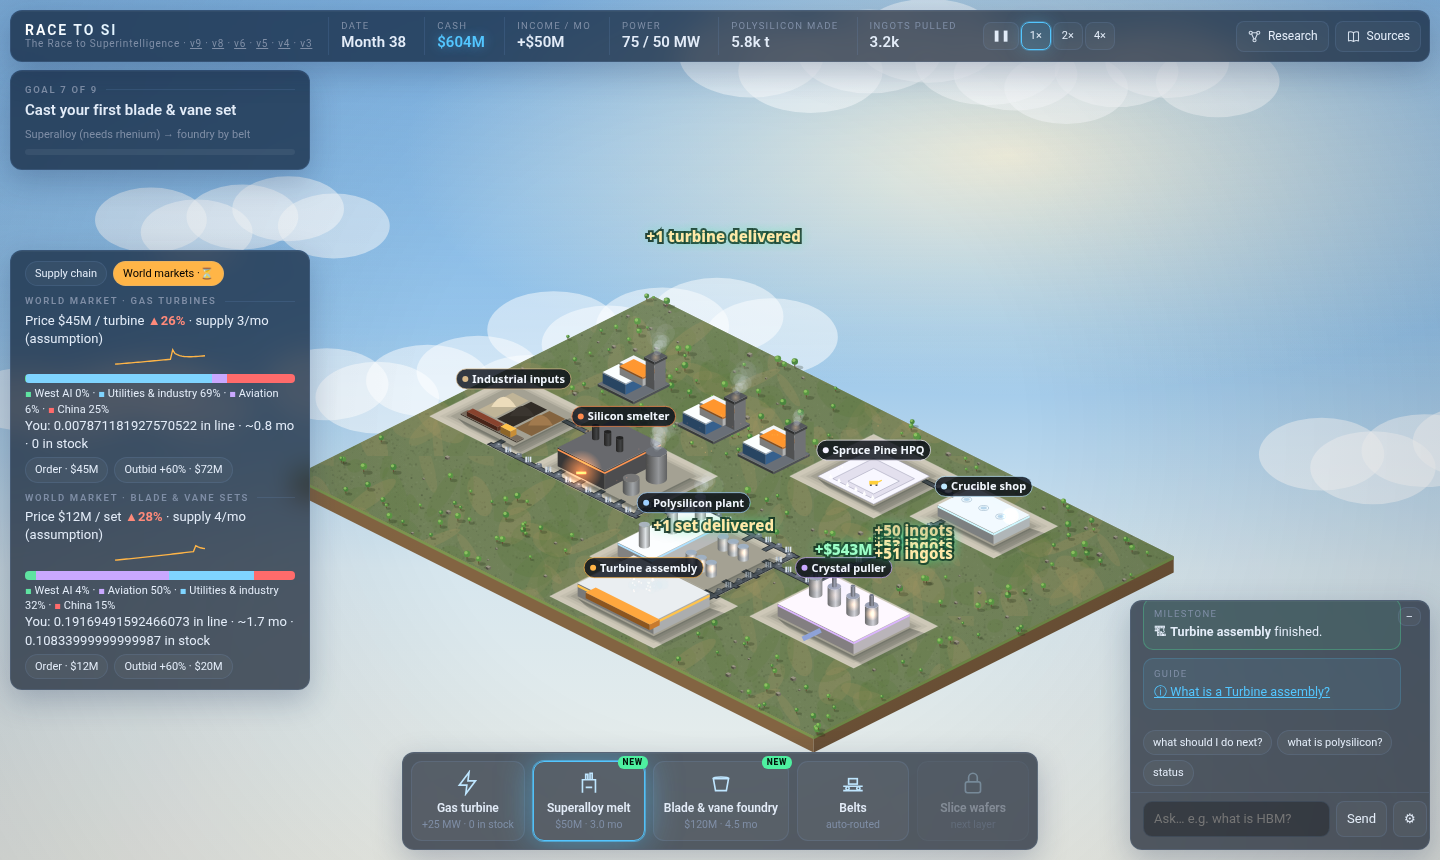
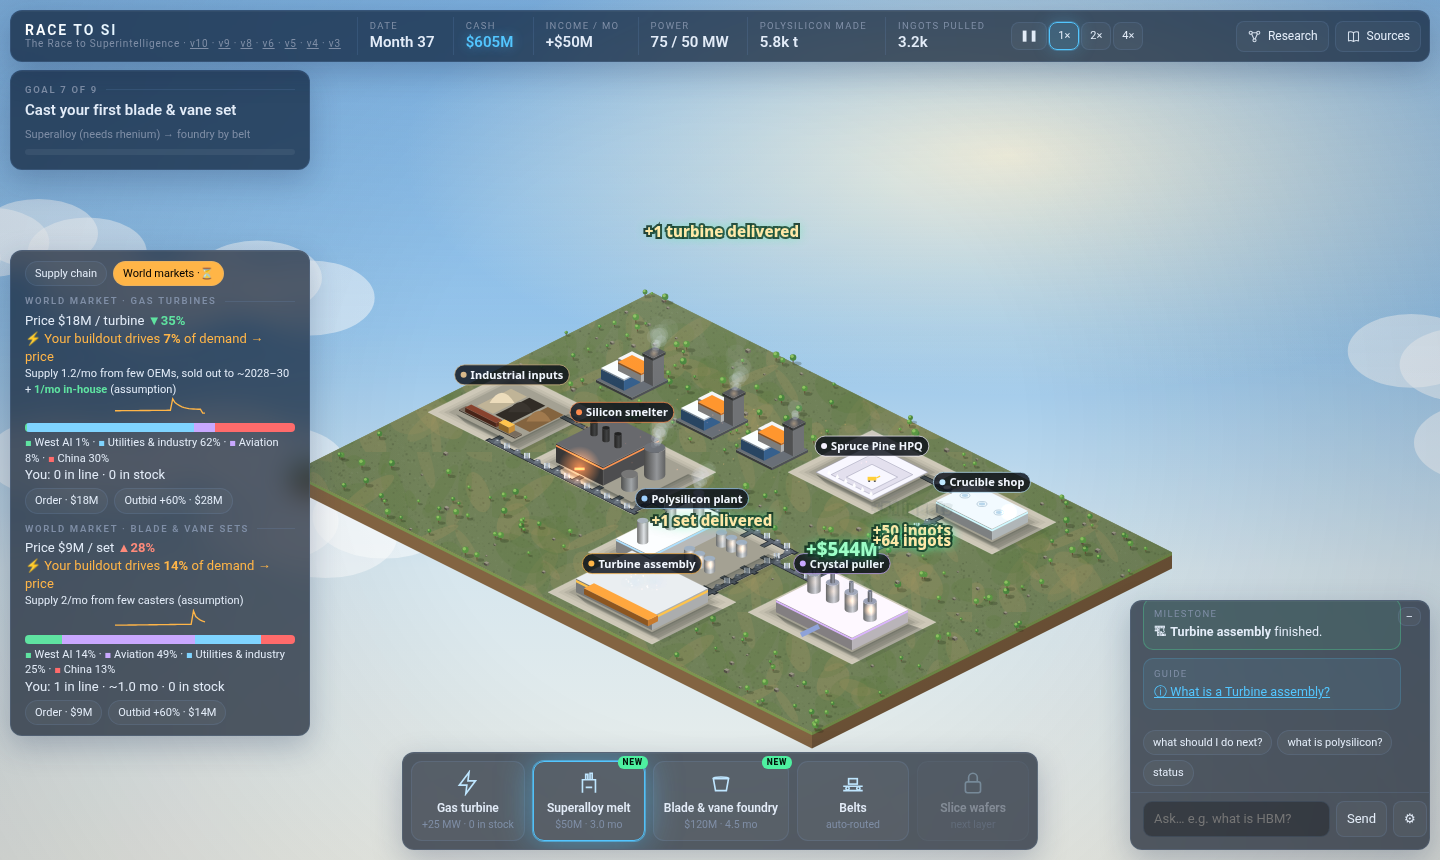
v10: price driven mainly by player AI demand; in-house output adds supply; panel shows your share

diff --git a/index.html b/index.html
@@ -137,7 +137,7 @@ const SRC=[
 ['S','Hot-section blade/vane casting is the limiting step; PCC and Howmet ~80% of high-end single-crystal casting (one expert interview)','Musk Jan & Aug 2026; In Practise; Turbomachinery Magazine'],
 ['S','Rhenium: ~81 t world mine output 2025; ~80% of US use in superalloys; metal ~$2,600/kg (2025)','USGS MCS 2026'],
 ['A','Recipes: superalloy 1 t inputs + 3% rhenium (30 kg, typical 2nd-gen single-crystal alloy level, not verified per alloy); 0.5 t alloy per blade set; 1 blade set + 200 t forgings/casings/generator (industrial inputs) per turbine','Game assumption'],
-['A','Markets: world supply, rival demand growth, price elasticity and the outbid premium are game assumptions. You are the whole West AI build-out; rivals are utilities & industry, aviation (same castings as jet engines) and China. Shares are assumptions','Game assumption'],
+['A','Markets: price = base × ((your orders + non-AI demand + China) ÷ supply)^1. Your own AI buildout is the main driver; non-AI baseline grows slowly; in-house output adds to supply. Supply, baseline, growth, exponent and outbid premium are game assumptions; supply is fixed and slow because few OEMs/casters exist (backlogs: GE Vernova 55 GW backlog+reservations, Jul 2025). You are the whole West AI build-out; rivals are utilities & industry, aviation (same castings as jet engines) and China. Shares are assumptions','Game assumption'],
 ['A','Global time scale: every build takes real duration × 1/8','Game rule'],
 ...Object.keys(DUR).map(k=>[DUR[k].s?'S':'A',`Build time, ${k}: real ${DUR[k].m} months → game ${(DUR[k].m/8).toFixed(2)} months`,DUR[k].src]),
 ];
@@ -273,16 +273,20 @@ function advance(dm){S.t+=dm;builds(dm);const e=econ();S.rate={};const sold0=S.s
 // Player = the whole West AI build-out. Rival demand = non-AI buyers + China (categories are data).
 // Turbine supply ~3 game turbines/month is an assumption. Demand weights are assumptions; context: utility/IPP orders fill GE Vernova's 55 GW backlog+reservations (Jul 2025); aero engines take most PCC/Howmet casting output (Howmet ~half of revenue is commercial aerospace engines, Howmet 10-K 2024) — shares here are game assumptions.
 const MKT={
- turb:{n:'Gas turbines',unit:'turbine',supply:3,price:.03,el:.8,buyers:[{n:'Utilities & industry',d:2.2,g:.012,c:'#7fd4ff'},{n:'Aviation',d:.2,g:.01,c:'#c9a8ff'},{n:'China',d:.6,g:.02,c:'#ff6b6b'}]},
- blade:{n:'Blade & vane sets',unit:'set',supply:4,price:.008,el:.8,buyers:[{n:'Aviation',d:2.2,g:.012,c:'#c9a8ff'},{n:'Utilities & industry',d:1.4,g:.012,c:'#7fd4ff'},{n:'China',d:.5,g:.02,c:'#ff6b6b'}]}};
+ turb:{n:'Gas turbines',unit:'turbine',supply:1.2,price:.03,el:1,buyers:[{n:'Utilities & industry',d:.65,g:.004,c:'#7fd4ff'},{n:'Aviation',d:.08,g:.004,c:'#c9a8ff'},{n:'China',d:.27,g:.008,c:'#ff6b6b'}]},
+ blade:{n:'Blade & vane sets',unit:'set',supply:2,price:.008,el:1,buyers:[{n:'Aviation',d:.9,g:.004,c:'#c9a8ff'},{n:'Utilities & industry',d:.45,g:.004,c:'#7fd4ff'},{n:'China',d:.2,g:.008,c:'#ff6b6b'}]}};
 function mkInit(){const o={};for(const k in MKT)o[k]={q:0,pq:0,hist:[],alloc:{},pos:0,acc:0};return o}
 const mkDem=(k,t)=>MKT[k].buyers.reduce((a,b)=>a+b.d*Math.pow(1+b.g,t),0);
-function mkPrice(k){const m=MKT[k],st=S.mk[k];const D=mkDem(k,S.t)+st.q+st.pq;return m.price*Math.pow(D/m.supply,m.el)}
+const mkInh=k=>k==='turb'?(S.rate.asm||0):(S.rate.cast||0);// in-house output adds to world supply
+const mkYou=k=>{const st=S.mk[k];return st.q+st.pq+(st.ordR||0)};// your AI buildout demand: open orders + recent order rate
+const mkSup=k=>MKT[k].supply+mkInh(k);
+function mkPrice(k){const m=MKT[k];const D=mkDem(k,S.t)+mkYou(k);return m.price*Math.pow(D/mkSup(k),m.el)}
+const mkShare=k=>{const y=mkYou(k);return y/(y+mkDem(k,S.t))};
 const OUTBID=1.6;
-function mkOrder(k,prio){const st=S.mk[k];const p=mkPrice(k)*(prio?OUTBID:1);if(S.cash<p)return say('b',`Not enough cash: one ${MKT[k].unit} costs ${money(p)}${prio?' with the outbid premium':''}.`);S.cash-=p;bumpCash();if(prio)st.pq++;else st.q++;sync();return say('a',prio?`Outbid: paid ${money(p)} (+${Math.round((OUTBID-1)*100)}%) to jump the queue. Delivery at the front of next month's allocation.`:`Ordered 1 ${MKT[k].unit} at ${money(p)}. You join the line: ~${mkWait(k).toFixed(1)} months.`)}
+function mkOrder(k,prio){const st=S.mk[k];const p=mkPrice(k)*(prio?OUTBID:1);if(S.cash<p)return say('b',`Not enough cash: one ${MKT[k].unit} costs ${money(p)}${prio?' with the outbid premium':''}.`);S.cash-=p;bumpCash();if(prio)st.pq++;else st.q++;st.ordR=(st.ordR||0)+1/6;sync();return say('a',prio?`Outbid: paid ${money(p)} (+${Math.round((OUTBID-1)*100)}%) to jump the queue. Delivery at the front of next month's allocation.`:`Ordered 1 ${MKT[k].unit} at ${money(p)}. You join the line: ~${mkWait(k).toFixed(1)} months.`)}
 // player share of the non-priority allocation is pro rata to its orders; queue wait estimate
 function mkWait(k){const m=MKT[k],st=S.mk[k];const D=mkDem(k,S.t);const rest=Math.max(0,m.supply-st.pq);const share=st.q/(D+st.q)*rest;return st.q?st.q/Math.max(.01,share):0}
-function mkTick(dm){for(const k in MKT){const m=MKT[k],st=S.mk[k];const sup=m.supply*dm;const D=mkDem(k,S.t)*dm;let left=sup;const pr=Math.min(st.pq,left);st.pq-=pr;left-=pr;const qn=st.q*dm;const mine=Math.min(st.q,left*(qn/(D+qn||1)));st.q-=mine;left-=mine;const got=pr+mine;st.acc+=got;const n=Math.floor(st.acc+1e-9);if(n>=1){st.acc-=n;S.stock[k]+=n;pop(k==='turb'?PWRS:SITES.asm,`+${n} ${m.unit} delivered`);if(k==='turb')chat('g',`🚚 ${n} gas turbine delivered. Place it from stock.`)}
+function mkTick(dm){for(const k in MKT){const m=MKT[k],st=S.mk[k];st.ordR=(st.ordR||0)*Math.exp(-dm/6);const sup=m.supply*dm;const D=mkDem(k,S.t)*dm;let left=sup;const pr=Math.min(st.pq,left);st.pq-=pr;left-=pr;const qn=st.q*dm;const mine=Math.min(st.q,left*(qn/(D+qn||1)));st.q-=mine;left-=mine;const got=pr+mine;st.acc+=got;const n=Math.floor(st.acc+1e-9);if(n>=1){st.acc-=n;S.stock[k]+=n;pop(k==='turb'?PWRS:SITES.asm,`+${n} ${m.unit} delivered`);if(k==='turb')chat('g',`🚚 ${n} gas turbine delivered. Place it from stock.`)}
   const al=st.alloc;al['West AI (you)']=(al['West AI (you)']||0)*.95+got/dm*.05;m.buyers.forEach(b=>{const dd=b.d*Math.pow(1+b.g,S.t)*dm;al[b.n]=(al[b.n]||0)*.95+(left*dd/(D||1))/dm*.05});
   st.tick=(st.tick||0)+dm;if(st.tick>=.5){st.tick=0;st.hist.push(mkPrice(k));if(st.hist.length>40)st.hist.shift()}}}
 const AICK={depot:'ind',smelt:'smelt',poly:'poly',hpq:'hpq',cru:'cru',cz:'cz',alloy:'smelt',cast:'cru',asm:'pow'};
@@ -348,7 +352,7 @@ function intro(){if(typeof __NOINTRO!=='undefined')return;const el=document.crea
 
 function spark(h){if(h.length<2)return'';const mx=Math.max(...h),mn=Math.min(...h);return`<svg viewBox="0 0 100 20" style="width:100%;height:18px"><polyline fill="none" stroke="#ffb547" stroke-width="1.5" points="${h.map((v,i)=>`${i*100/(h.length-1)},${18-16*(v-mn)/((mx-mn)||1)}`).join(' ')}"/></svg>`}
 function mkPanel(){let o='';for(const k of['turb','blade']){if(k==='blade'&&!S.unl.asm)continue;const m=MKT[k],st=S.mk[k];const al=st.alloc;const tot=Object.values(al).reduce((a,b)=>a+b,0)||1;const cols={'West AI (you)':'#5fe3a1'};m.buyers.forEach(b=>cols[b.n]=b.c);const keys=['West AI (you)',...m.buyers.map(b=>b.n)];const p=mkPrice(k),h=st.hist;const tr=h.length>1?(p/h[0]-1)*100:0;
- o+=`<div class="mkt"><h3 style="margin:8px 0 4px">World market · ${m.n}</h3><div class="par">Price ${money(p)} / ${m.unit} <b style="color:${tr>0?'#ff8a7a':'#5fe3a1'}">${tr>=0?'▲':'▼'}${Math.abs(tr).toFixed(0)}%</b> · supply ${m.supply}/mo (assumption)</div>${spark(h)}
+ o+=`<div class="mkt"><h3 style="margin:8px 0 4px">World market · ${m.n}</h3><div class="par">Price ${money(p)} / ${m.unit} <b style="color:${tr>0?'#ff8a7a':'#5fe3a1'}">${tr>=0?'▲':'▼'}${Math.abs(tr).toFixed(0)}%</b> </div><div class="par" style="color:#ffb547">⚡ Your buildout drives <b>${Math.round(100*mkShare(k))}%</b> of demand → price</div><div class="par" style="font-size:11px">Supply ${m.supply}/mo from few ${k==='turb'?'OEMs, sold out to ~2028–30':'casters'}${mkInh(k)>.01?` + <b style="color:#5fe3a1">${fk(mkInh(k))}/mo in-house</b>`:''} (assumption)</div>${spark(h)}
  <div style="display:flex;height:9px;border-radius:4px;overflow:hidden;margin:3px 0">${keys.map(n=>`<i title="${n}" style="width:${100*(al[n]||0)/tot}%;background:${cols[n]}"></i>`).join('')}</div>
  <div class="par" style="font-size:11px">${keys.map(n=>`<span style="color:${cols[n]}">■</span> ${n.replace(' (you)','')} ${Math.round(100*(al[n]||0)/tot)}%`).join(' · ')}</div>
  <div class="par">You: ${st.pq>.01?Math.ceil(st.pq-.01)+' priority · ':''}${st.q>.01?Math.ceil(st.q-.01):0} in line${st.q>.01?` · ~${mkWait(k).toFixed(1)} mo`:''} · ${Math.floor(S.stock[k]+1e-6)} in stock</div>

diff --git a/v10/index.html b/v10/index.html
@@ -137,7 +137,7 @@ const SRC=[
 ['S','Hot-section blade/vane casting is the limiting step; PCC and Howmet ~80% of high-end single-crystal casting (one expert interview)','Musk Jan & Aug 2026; In Practise; Turbomachinery Magazine'],
 ['S','Rhenium: ~81 t world mine output 2025; ~80% of US use in superalloys; metal ~$2,600/kg (2025)','USGS MCS 2026'],
 ['A','Recipes: superalloy 1 t inputs + 3% rhenium (30 kg, typical 2nd-gen single-crystal alloy level, not verified per alloy); 0.5 t alloy per blade set; 1 blade set + 200 t forgings/casings/generator (industrial inputs) per turbine','Game assumption'],
-['A','Markets: world supply, rival demand growth, price elasticity and the outbid premium are game assumptions. You are the whole West AI build-out; rivals are utilities & industry, aviation (same castings as jet engines) and China. Shares are assumptions','Game assumption'],
+['A','Markets: price = base × ((your orders + non-AI demand + China) ÷ supply)^1. Your own AI buildout is the main driver; non-AI baseline grows slowly; in-house output adds to supply. Supply, baseline, growth, exponent and outbid premium are game assumptions; supply is fixed and slow because few OEMs/casters exist (backlogs: GE Vernova 55 GW backlog+reservations, Jul 2025). You are the whole West AI build-out; rivals are utilities & industry, aviation (same castings as jet engines) and China. Shares are assumptions','Game assumption'],
 ['A','Global time scale: every build takes real duration × 1/8','Game rule'],
 ...Object.keys(DUR).map(k=>[DUR[k].s?'S':'A',`Build time, ${k}: real ${DUR[k].m} months → game ${(DUR[k].m/8).toFixed(2)} months`,DUR[k].src]),
 ];
@@ -273,16 +273,20 @@ function advance(dm){S.t+=dm;builds(dm);const e=econ();S.rate={};const sold0=S.s
 // Player = the whole West AI build-out. Rival demand = non-AI buyers + China (categories are data).
 // Turbine supply ~3 game turbines/month is an assumption. Demand weights are assumptions; context: utility/IPP orders fill GE Vernova's 55 GW backlog+reservations (Jul 2025); aero engines take most PCC/Howmet casting output (Howmet ~half of revenue is commercial aerospace engines, Howmet 10-K 2024) — shares here are game assumptions.
 const MKT={
- turb:{n:'Gas turbines',unit:'turbine',supply:3,price:.03,el:.8,buyers:[{n:'Utilities & industry',d:2.2,g:.012,c:'#7fd4ff'},{n:'Aviation',d:.2,g:.01,c:'#c9a8ff'},{n:'China',d:.6,g:.02,c:'#ff6b6b'}]},
- blade:{n:'Blade & vane sets',unit:'set',supply:4,price:.008,el:.8,buyers:[{n:'Aviation',d:2.2,g:.012,c:'#c9a8ff'},{n:'Utilities & industry',d:1.4,g:.012,c:'#7fd4ff'},{n:'China',d:.5,g:.02,c:'#ff6b6b'}]}};
+ turb:{n:'Gas turbines',unit:'turbine',supply:1.2,price:.03,el:1,buyers:[{n:'Utilities & industry',d:.65,g:.004,c:'#7fd4ff'},{n:'Aviation',d:.08,g:.004,c:'#c9a8ff'},{n:'China',d:.27,g:.008,c:'#ff6b6b'}]},
+ blade:{n:'Blade & vane sets',unit:'set',supply:2,price:.008,el:1,buyers:[{n:'Aviation',d:.9,g:.004,c:'#c9a8ff'},{n:'Utilities & industry',d:.45,g:.004,c:'#7fd4ff'},{n:'China',d:.2,g:.008,c:'#ff6b6b'}]}};
 function mkInit(){const o={};for(const k in MKT)o[k]={q:0,pq:0,hist:[],alloc:{},pos:0,acc:0};return o}
 const mkDem=(k,t)=>MKT[k].buyers.reduce((a,b)=>a+b.d*Math.pow(1+b.g,t),0);
-function mkPrice(k){const m=MKT[k],st=S.mk[k];const D=mkDem(k,S.t)+st.q+st.pq;return m.price*Math.pow(D/m.supply,m.el)}
+const mkInh=k=>k==='turb'?(S.rate.asm||0):(S.rate.cast||0);// in-house output adds to world supply
+const mkYou=k=>{const st=S.mk[k];return st.q+st.pq+(st.ordR||0)};// your AI buildout demand: open orders + recent order rate
+const mkSup=k=>MKT[k].supply+mkInh(k);
+function mkPrice(k){const m=MKT[k];const D=mkDem(k,S.t)+mkYou(k);return m.price*Math.pow(D/mkSup(k),m.el)}
+const mkShare=k=>{const y=mkYou(k);return y/(y+mkDem(k,S.t))};
 const OUTBID=1.6;
-function mkOrder(k,prio){const st=S.mk[k];const p=mkPrice(k)*(prio?OUTBID:1);if(S.cash<p)return say('b',`Not enough cash: one ${MKT[k].unit} costs ${money(p)}${prio?' with the outbid premium':''}.`);S.cash-=p;bumpCash();if(prio)st.pq++;else st.q++;sync();return say('a',prio?`Outbid: paid ${money(p)} (+${Math.round((OUTBID-1)*100)}%) to jump the queue. Delivery at the front of next month's allocation.`:`Ordered 1 ${MKT[k].unit} at ${money(p)}. You join the line: ~${mkWait(k).toFixed(1)} months.`)}
+function mkOrder(k,prio){const st=S.mk[k];const p=mkPrice(k)*(prio?OUTBID:1);if(S.cash<p)return say('b',`Not enough cash: one ${MKT[k].unit} costs ${money(p)}${prio?' with the outbid premium':''}.`);S.cash-=p;bumpCash();if(prio)st.pq++;else st.q++;st.ordR=(st.ordR||0)+1/6;sync();return say('a',prio?`Outbid: paid ${money(p)} (+${Math.round((OUTBID-1)*100)}%) to jump the queue. Delivery at the front of next month's allocation.`:`Ordered 1 ${MKT[k].unit} at ${money(p)}. You join the line: ~${mkWait(k).toFixed(1)} months.`)}
 // player share of the non-priority allocation is pro rata to its orders; queue wait estimate
 function mkWait(k){const m=MKT[k],st=S.mk[k];const D=mkDem(k,S.t);const rest=Math.max(0,m.supply-st.pq);const share=st.q/(D+st.q)*rest;return st.q?st.q/Math.max(.01,share):0}
-function mkTick(dm){for(const k in MKT){const m=MKT[k],st=S.mk[k];const sup=m.supply*dm;const D=mkDem(k,S.t)*dm;let left=sup;const pr=Math.min(st.pq,left);st.pq-=pr;left-=pr;const qn=st.q*dm;const mine=Math.min(st.q,left*(qn/(D+qn||1)));st.q-=mine;left-=mine;const got=pr+mine;st.acc+=got;const n=Math.floor(st.acc+1e-9);if(n>=1){st.acc-=n;S.stock[k]+=n;pop(k==='turb'?PWRS:SITES.asm,`+${n} ${m.unit} delivered`);if(k==='turb')chat('g',`🚚 ${n} gas turbine delivered. Place it from stock.`)}
+function mkTick(dm){for(const k in MKT){const m=MKT[k],st=S.mk[k];st.ordR=(st.ordR||0)*Math.exp(-dm/6);const sup=m.supply*dm;const D=mkDem(k,S.t)*dm;let left=sup;const pr=Math.min(st.pq,left);st.pq-=pr;left-=pr;const qn=st.q*dm;const mine=Math.min(st.q,left*(qn/(D+qn||1)));st.q-=mine;left-=mine;const got=pr+mine;st.acc+=got;const n=Math.floor(st.acc+1e-9);if(n>=1){st.acc-=n;S.stock[k]+=n;pop(k==='turb'?PWRS:SITES.asm,`+${n} ${m.unit} delivered`);if(k==='turb')chat('g',`🚚 ${n} gas turbine delivered. Place it from stock.`)}
   const al=st.alloc;al['West AI (you)']=(al['West AI (you)']||0)*.95+got/dm*.05;m.buyers.forEach(b=>{const dd=b.d*Math.pow(1+b.g,S.t)*dm;al[b.n]=(al[b.n]||0)*.95+(left*dd/(D||1))/dm*.05});
   st.tick=(st.tick||0)+dm;if(st.tick>=.5){st.tick=0;st.hist.push(mkPrice(k));if(st.hist.length>40)st.hist.shift()}}}
 const AICK={depot:'ind',smelt:'smelt',poly:'poly',hpq:'hpq',cru:'cru',cz:'cz',alloy:'smelt',cast:'cru',asm:'pow'};
@@ -348,7 +352,7 @@ function intro(){if(typeof __NOINTRO!=='undefined')return;const el=document.crea
 
 function spark(h){if(h.length<2)return'';const mx=Math.max(...h),mn=Math.min(...h);return`<svg viewBox="0 0 100 20" style="width:100%;height:18px"><polyline fill="none" stroke="#ffb547" stroke-width="1.5" points="${h.map((v,i)=>`${i*100/(h.length-1)},${18-16*(v-mn)/((mx-mn)||1)}`).join(' ')}"/></svg>`}
 function mkPanel(){let o='';for(const k of['turb','blade']){if(k==='blade'&&!S.unl.asm)continue;const m=MKT[k],st=S.mk[k];const al=st.alloc;const tot=Object.values(al).reduce((a,b)=>a+b,0)||1;const cols={'West AI (you)':'#5fe3a1'};m.buyers.forEach(b=>cols[b.n]=b.c);const keys=['West AI (you)',...m.buyers.map(b=>b.n)];const p=mkPrice(k),h=st.hist;const tr=h.length>1?(p/h[0]-1)*100:0;
- o+=`<div class="mkt"><h3 style="margin:8px 0 4px">World market · ${m.n}</h3><div class="par">Price ${money(p)} / ${m.unit} <b style="color:${tr>0?'#ff8a7a':'#5fe3a1'}">${tr>=0?'▲':'▼'}${Math.abs(tr).toFixed(0)}%</b> · supply ${m.supply}/mo (assumption)</div>${spark(h)}
+ o+=`<div class="mkt"><h3 style="margin:8px 0 4px">World market · ${m.n}</h3><div class="par">Price ${money(p)} / ${m.unit} <b style="color:${tr>0?'#ff8a7a':'#5fe3a1'}">${tr>=0?'▲':'▼'}${Math.abs(tr).toFixed(0)}%</b> </div><div class="par" style="color:#ffb547">⚡ Your buildout drives <b>${Math.round(100*mkShare(k))}%</b> of demand → price</div><div class="par" style="font-size:11px">Supply ${m.supply}/mo from few ${k==='turb'?'OEMs, sold out to ~2028–30':'casters'}${mkInh(k)>.01?` + <b style="color:#5fe3a1">${fk(mkInh(k))}/mo in-house</b>`:''} (assumption)</div>${spark(h)}
  <div style="display:flex;height:9px;border-radius:4px;overflow:hidden;margin:3px 0">${keys.map(n=>`<i title="${n}" style="width:${100*(al[n]||0)/tot}%;background:${cols[n]}"></i>`).join('')}</div>
  <div class="par" style="font-size:11px">${keys.map(n=>`<span style="color:${cols[n]}">■</span> ${n.replace(' (you)','')} ${Math.round(100*(al[n]||0)/tot)}%`).join(' · ')}</div>
  <div class="par">You: ${st.pq>.01?Math.ceil(st.pq-.01)+' priority · ':''}${st.q>.01?Math.ceil(st.q-.01):0} in line${st.q>.01?` · ~${mkWait(k).toFixed(1)} mo`:''} · ${Math.floor(S.stock[k]+1e-6)} in stock</div>

diff --git a/docs/NODES.md b/docs/NODES.md
@@ -81,3 +81,5 @@ Framing (Bence, 22 Oct 2026): the player is the **whole West** vs China. Market 
 Manual grid lines are gone. All finished turbines feed **one global power pool**, and every building draws from it. Wiring was annoying and isn't a real chokepoint. Belts stay for material flow but are auto-routed.
 
 **Planned later node: the real grid chokepoint** (interconnection queues, large power transformers and switchgear, nodes 24–25). It will be a **timer/permit** (queue wait before new MW counts), not wiring. Sources so far: Berkeley Lab "Queued Up" 2024 for queues; the transformer lead times still need sourcing.
+
+**Market pricing (v10, Bence):** price = base × ((your orders + non-AI baseline + China) ÷ supply)^1. Your demand is open orders plus a 6-month decaying order rate. The non-AI baseline grows slowly (0.4%/mo; China 0.8%/mo). Supply is fixed and small: 1.2 turbines/mo, 2 blade sets/mo. In-house output adds to supply and eases the price. The panel shows "Your buildout drives X% of demand". All of these numbers are assumptions; context: GE Vernova backlog, few casters.
